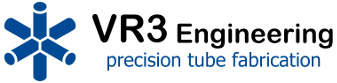
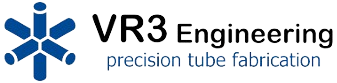
removed white bg from 2.

diff --git a/sponsors.html b/sponsors.html
@@ -181,7 +181,7 @@
                             <img src="assets/sponsors/VR3.png" alt="">
                         </a>
                     </div>
-                    <div class="frameSponso two hidden">
+                    <div class="frameSponso three hidden">
                         <a href="https://www.birrafanelli.com/">
                             <div class="spacer" id="goToFanelli"></div>
                             <img src="assets/sponsors/fanelli.png" alt="">
@@ -189,6 +189,22 @@
                         <a href="https://www.bmwlaval.com/en/">
                             <div class="spacer" id="goToBMW"></div>
                             <img src="assets/sponsors/bmwLaval.png" alt="">
+                        </a>
+                    </div>
+                    <div class="frameSponso four hidden">
+                        <a href="https://www.benderinc.com/">
+                            <div class="spacer" id="goToBender"></div>
+                            <img src="assets/sponsors/Bender.svg" alt="">
+                        </a>
+                        <a href="https://www.digikey.ca/?utm_adgroup=&utm_source=google&utm_medium=cpc&utm_campaign=Pmax_Shopping_Fluke_0614_Co-op&utm_term=&utm_content=&utm_id=go_cmp-20718326333_adg-_ad-__dev-c_ext-_prd-_sig-CjwKCAjwwr6wBhBcEiwAfMEQs_QRmQ3R9Q3wlK2RGdy7Wsd58AD3IJhbVJvF6dPuQM_EkR4nlNh1oBoCe8sQAvD_BwE&gad_source=1&_gl=1*19qu67c*_up*MQ..&gclid=CjwKCAjwwr6wBhBcEiwAfMEQs_QRmQ3R9Q3wlK2RGdy7Wsd58AD3IJhbVJvF6dPuQM_EkR4nlNh1oBoCe8sQAvD_BwE">
+                            <div class="spacer" id="goToDigikey"></div>
+                            <img src="assets/sponsors/digikey.png" alt="">
+                        </a>
+                    </div>
+                    <div class="frameSponso five hidden">
+                        <a href="https://www.solidworks.com/">
+                            <div class="spacer" id="goToSolidWorks"></div>
+                            <img src="assets/sponsors/SolidWorks.svg" alt="">
                         </a>
                     </div>
                 </div>

diff --git a/index.html b/index.html
@@ -298,8 +298,17 @@
                                 <a href="sponsors.html#goToECA">
                                     <img src="assets/sponsors/eca.png" alt="">
                                 </a>
+                                <a href="sponsors.html#goToBender">
+                                    <img src="assets/sponsors/Bender.svg" alt="">
+                                </a>
+                                <a href="sponsors.html#goToDigikey">
+                                    <img src="assets/sponsors/digikey.png" alt="">
+                                </a>
+                                <a href="sponsors.html#goToSolidWorks">
+                                    <img src="assets/sponsors/SolidWorks.svg" alt="">
+                                </a>
                             </div>
-                            <<div class="sponsoRepeat one">
+                            <div class="sponsoRepeat one">
                                 <a href="sponsors.html#goToCCSL">
                                     <img src="assets/sponsors/SSEV-CCSL-CMYK-VERT-ENG-HR[64].png" alt="">
                                 </a>
@@ -351,6 +360,15 @@
                                 </a>
                                 <a href="sponsors.html#goToECA">
                                     <img src="assets/sponsors/eca.png" alt="">
+                                </a>
+                                <a href="sponsors.html#goToBender">
+                                    <img src="assets/sponsors/Bender.svg" alt="">
+                                </a>
+                                <a href="sponsors.html#goToDigikey">
+                                    <img src="assets/sponsors/digikey.png" alt="">
+                                </a>
+                                <a href="sponsors.html#goToSolidWorks">
+                                    <img src="assets/sponsors/SolidWorks.svg" alt="">
                                 </a>
                             </div>
                         </div>

diff --git a/style.css b/style.css
@@ -518,7 +518,7 @@ section.subsystems {
     align-items: center;
     height: 15em;
     left: 0;
-    animation: slideToLeft 20s linear infinite;
+    animation: slideToLeft 45s linear infinite;
     /* animation-play-state: paused; */
 }
 .sponsoRepeat a img{
